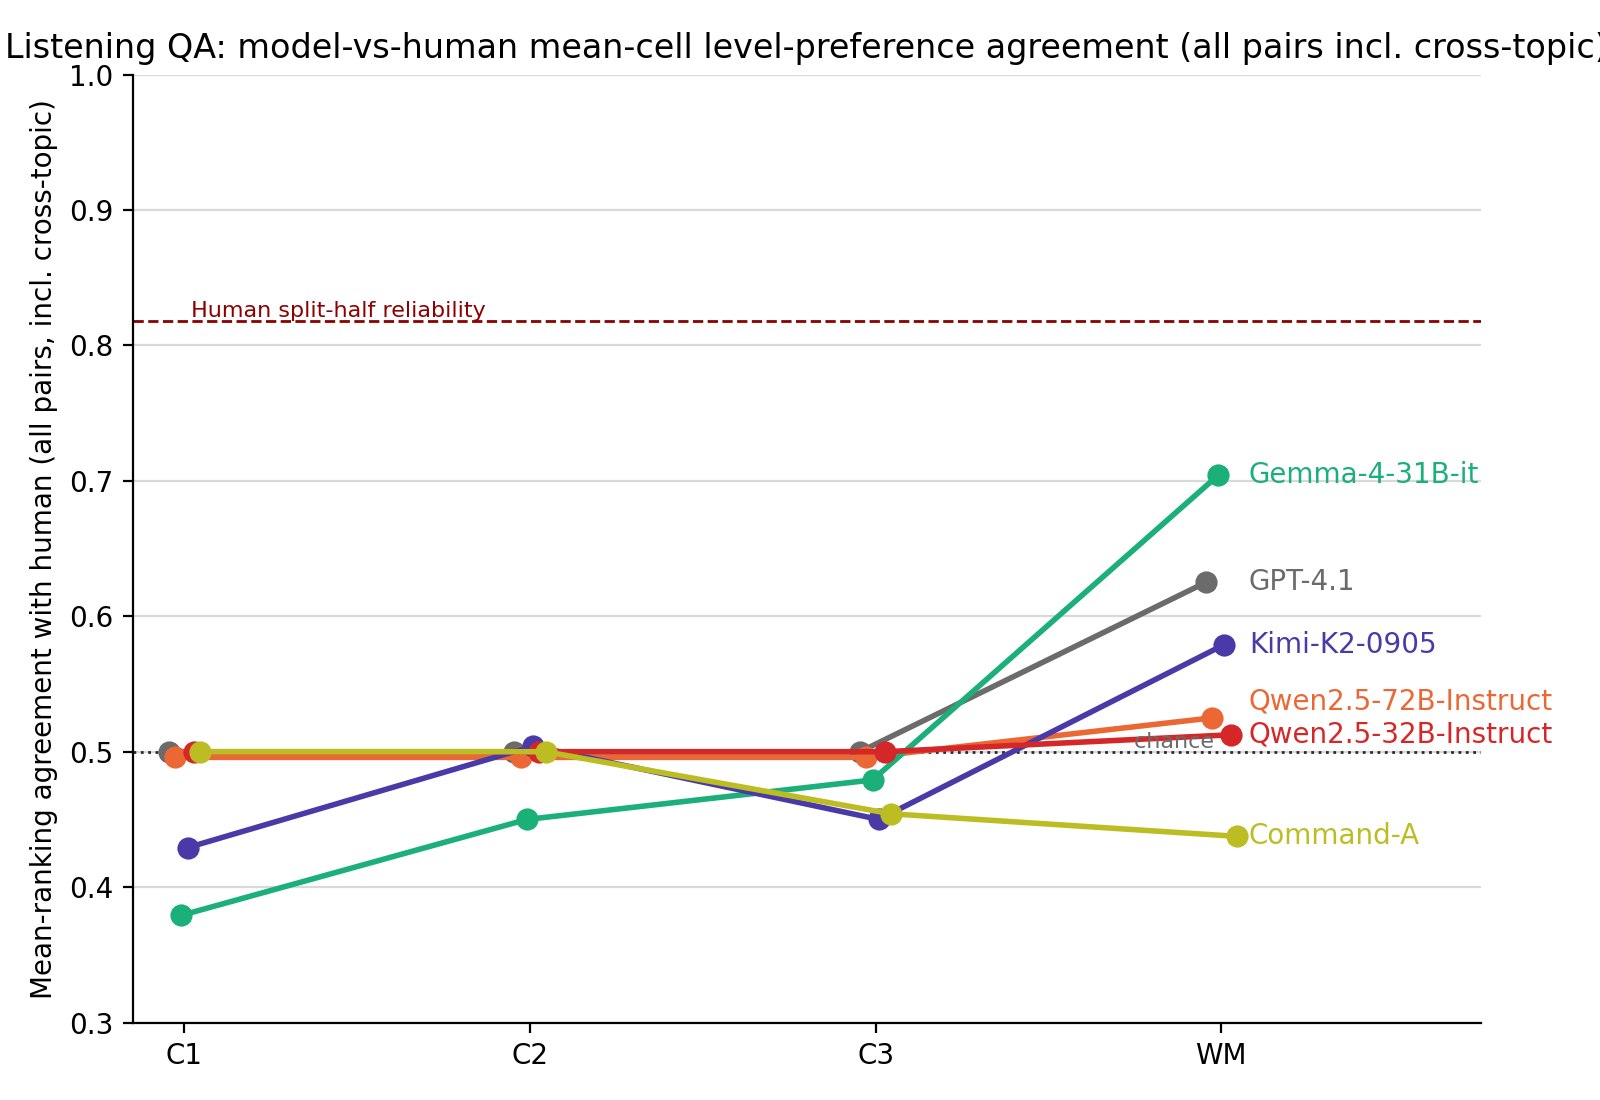
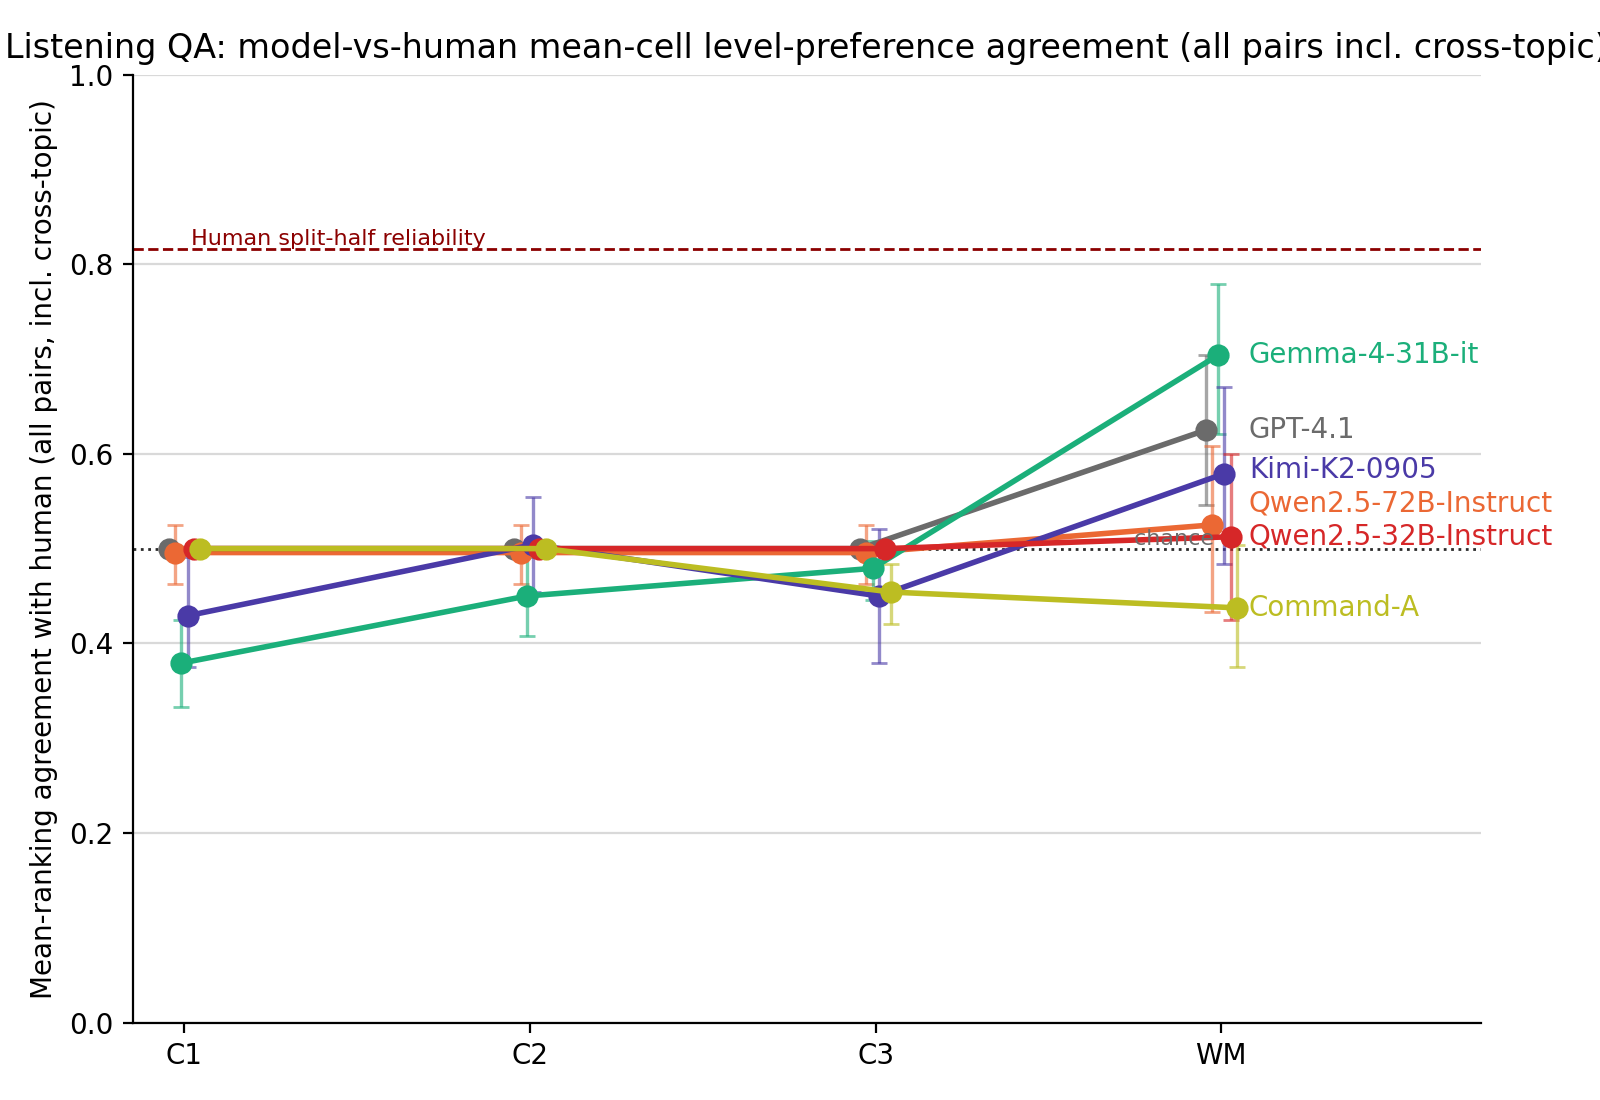
Add bootstrap CI error bars to mean-cell-ranking alignment plots; full 0-1 y-axis
CI resamples the per-base-pair score list (n=24 within-topic, n=120 all-pairs)
with replacement, so the interval width correctly reflects sample size -- the
within-topic bars/lines get visibly wider CIs than the all-pairs ones for the
same model. C1-C3 collapse to a degenerate [0.5, 0.5] CI since gpt-4.1's
prompting scores are all-tie (no variance to resample).

Claude-Session: https://claude.ai/code/session_01MUstYkbzcGijHmqYVCh4C7

diff --git a/application/plot_listening_qa_mean_level_pair_alignment_bar.py b/application/plot_listening_qa_mean_level_pair_alignment_bar.py
@@ -16,6 +16,7 @@ import sys
 from pathlib import Path
 
 import matplotlib
+import numpy as np
 
 matplotlib.use("Agg")
 import matplotlib.pyplot as plt
@@ -29,6 +30,7 @@ from application.listening_qa.mean_level_pair_alignment import (  # noqa: E402
     DEFAULT_HUMAN_CSV,
     DEFAULT_STANDALONE_JSONL,
     DEFAULT_WM_JSONL,
+    bootstrap_ci_agreement,
     load_human_topic_level_accuracies,
     load_llm_topic_level_condition,
     mean_split_half_baseline,
@@ -46,15 +48,33 @@ COND_COLORS = {
 }
 
 
-def _bar_panel(ax, agreements: dict[str, float | None], baseline: float, title: str) -> None:
+def _bar_panel(
+    ax,
+    agreements: dict[str, float | None],
+    ci: dict[str, tuple[float, float]],
+    baseline: float,
+    title: str,
+) -> None:
     xs = list(range(len(CONDITIONS)))
     heights = [agreements[c] if agreements[c] is not None else 0.0 for c in CONDITIONS]
     colors = [COND_COLORS[c] for c in CONDITIONS]
-    ax.bar(xs, heights, color=colors, edgecolor=INK, linewidth=0.8, width=0.6, zorder=3)
+    lo_err = [
+        max(0.0, (agreements[c] or 0.0) - ci[c][0]) if agreements[c] is not None and np.isfinite(ci[c][0]) else 0.0
+        for c in CONDITIONS
+    ]
+    hi_err = [
+        max(0.0, ci[c][1] - (agreements[c] or 0.0)) if agreements[c] is not None and np.isfinite(ci[c][1]) else 0.0
+        for c in CONDITIONS
+    ]
+    ax.bar(
+        xs, heights, color=colors, edgecolor=INK, linewidth=0.8, width=0.6, zorder=3,
+        yerr=[lo_err, hi_err], capsize=4, ecolor=INK, error_kw={"elinewidth": 1.2, "zorder": 4},
+    )
     for x, c in zip(xs, CONDITIONS):
         v = agreements[c]
         label = f"{v:.3f}" if v is not None else "na"
-        ax.text(x, (v or 0.0) + 0.015, label, ha="center", va="bottom", fontsize=9, color=INK)
+        y_top = (v or 0.0) + hi_err[CONDITIONS.index(c)]
+        ax.text(x, y_top + 0.02, label, ha="center", va="bottom", fontsize=9, color=INK)
 
     ax.axhline(CHANCE, color=INK, linestyle=":", linewidth=1, zorder=1)
     ax.text(
@@ -69,7 +89,7 @@ def _bar_panel(ax, agreements: dict[str, float | None], baseline: float, title: 
 
     ax.set_xticks(xs)
     ax.set_xticklabels(CONDITIONS)
-    ax.set_ylim(0.0, min(1.05, baseline + 0.10))
+    ax.set_ylim(0.0, 1.0)
     ax.set_ylabel("Mean-ranking agreement with human")
     ax.set_title(title)
     ax.grid(axis="y", color=GRID, linewidth=0.8, zorder=0)
@@ -97,14 +117,17 @@ def main() -> None:
             llm=llm, human=human, topics=topics, eval_conditions=list(CONDITIONS), scope=scope
         )
         agreements = {c: result["per_condition"][c]["agreement"] for c in CONDITIONS}
+        ci = {c: bootstrap_ci_agreement(result["per_condition"][c]["scores"]) for c in CONDITIONS}
         for c, a in agreements.items():
-            print(f"  {c}: {a:.3f}" if a is not None else f"  {c}: na")
+            lo, hi = ci[c]
+            ci_str = f" [{lo:.3f}, {hi:.3f}]" if np.isfinite(lo) else ""
+            print(f"  {c}: {a:.3f}{ci_str}" if a is not None else f"  {c}: na")
 
         print(f"Computing human split-half reliability baseline (scope={scope}, 20 splits)...")
         baseline = mean_split_half_baseline(DEFAULT_HUMAN_CSV, scope=scope)
         print(f"  Human split-half reliability: {baseline:.3f}")
 
-        _bar_panel(ax, agreements, baseline, label)
+        _bar_panel(ax, agreements, ci, baseline, label)
 
     fig.suptitle("Listening QA: mean-cell-ranking agreement with human (gpt-4.1)")
     fig.tight_layout()

diff --git a/application/plot_listening_qa_mean_level_pair_alignment_slopeplot.py b/application/plot_listening_qa_mean_level_pair_alignment_slopeplot.py
@@ -24,6 +24,7 @@ from application.listening_qa.level_pair_preference_alignment import (  # noqa: 
     load_llm_topic_level_condition,
 )
 from application.listening_qa.mean_level_pair_alignment import (  # noqa: E402
+    bootstrap_ci_agreement,
     mean_split_half_baseline,
     run_mean_alignment,
 )
@@ -35,9 +36,12 @@ from application.plot_listening_qa_alignment_slopeplots import (  # noqa: E402
 )
 
 
-def compute_mean_ranking_agreement(*, scope: str = "within_topic") -> dict[str, dict[str, float]]:
+def compute_mean_ranking_agreement(
+    *, scope: str = "within_topic", seed: int = 42
+) -> tuple[dict[str, dict[str, float]], dict[str, dict[str, tuple[float, float]]]]:
     human = load_human_topic_level_accuracies(HUMAN_CSV)
     out: dict[str, dict[str, float]] = {}
+    ci: dict[str, dict[str, tuple[float, float]]] = {}
     for name, prompt_jsonl, wm_jsonl in MODELS:
         llm = load_llm_topic_level_condition(prompt_jsonl, wm_jsonl)
         topics = sorted(set(human.keys()) | {t for c in CONDITIONS for t in llm.get(c, {}).keys()})
@@ -45,7 +49,11 @@ def compute_mean_ranking_agreement(*, scope: str = "within_topic") -> dict[str, 
             llm=llm, human=human, topics=topics, eval_conditions=list(CONDITIONS), scope=scope
         )
         out[name] = {c: result["per_condition"][c]["agreement"] or 0.0 for c in CONDITIONS}
-    return out
+        ci[name] = {
+            c: bootstrap_ci_agreement(result["per_condition"][c]["scores"], seed=seed)
+            for c in CONDITIONS
+        }
+    return out, ci
 
 
 def main() -> None:
@@ -57,7 +65,7 @@ def main() -> None:
         ("all", "all pairs incl. cross-topic", "_alltopics", "(all pairs, incl. cross-topic)"),
     ]:
         print(f"Computing mean-cell-ranking agreement (vs. human) for all models (scope={scope})...")
-        agreement = compute_mean_ranking_agreement(scope=scope)
+        agreement, ci = compute_mean_ranking_agreement(scope=scope)
         for name, row in agreement.items():
             print(f"  {name}: " + " ".join(f"{c}={row[c]:.3f}" for c in CONDITIONS))
 
@@ -72,7 +80,8 @@ def main() -> None:
             title=f"Listening QA: model-vs-human mean-cell level-preference agreement ({scope_label})",
             out_path=out_path,
             chance_line=CHANCE,
-            ylim=(0.30, 1.0),
+            ci=ci,
+            ylim=(0.0, 1.0),
             baseline_line=("Human split-half reliability", baseline),
         )
         print(f"Saved plot to {out_path}\n")

diff --git a/application/listening_qa/mean_level_pair_alignment.py b/application/listening_qa/mean_level_pair_alignment.py
@@ -110,7 +110,7 @@ def run_mean_alignment(
     base_pairs = enumerate_cell_pairs(topics, scope=scope)
     per_condition: dict[str, dict[str, Any]] = {
         c: {"score_sum": 0.0, "n": 0, "missing_human": 0, "missing_model": 0,
-            "ties_human": 0, "ties_model": 0, "by_pair": {}}
+            "ties_human": 0, "ties_model": 0, "by_pair": {}, "scores": []}
         for c in eval_conditions
     }
 
@@ -144,6 +144,7 @@ def run_mean_alignment(
                 score = pair_score(h_side, m_side)
                 per_condition[c]["n"] += 1
                 per_condition[c]["score_sum"] += score
+                per_condition[c]["scores"].append(score)
                 row["score"] = score
             per_condition[c]["by_pair"][pair_key] = row
 
@@ -158,6 +159,24 @@ def run_mean_alignment(
         "n_base_comparisons": len(base_pairs),
         "per_condition": per_condition,
     }
+
+
+def bootstrap_ci_agreement(
+    scores: list[float], *, n_boot: int = 2000, seed: int = 42
+) -> tuple[float, float]:
+    """Percentile bootstrap 95% CI on mean agreement, resampling the per-base-pair
+    scores (0 / 0.5 / 1) with replacement. NaN bounds if too few scores to resample."""
+    arr = np.asarray(scores, dtype=np.float64)
+    if arr.size < 2:
+        return float("nan"), float("nan")
+    rng = np.random.default_rng(seed)
+    n = arr.size
+    boot_means = np.empty(n_boot)
+    for i in range(n_boot):
+        idx = rng.integers(0, n, size=n)
+        boot_means[i] = arr[idx].mean()
+    lo, hi = np.percentile(boot_means, [2.5, 97.5])
+    return float(lo), float(hi)
 
 
 def mean_split_half_baseline(
